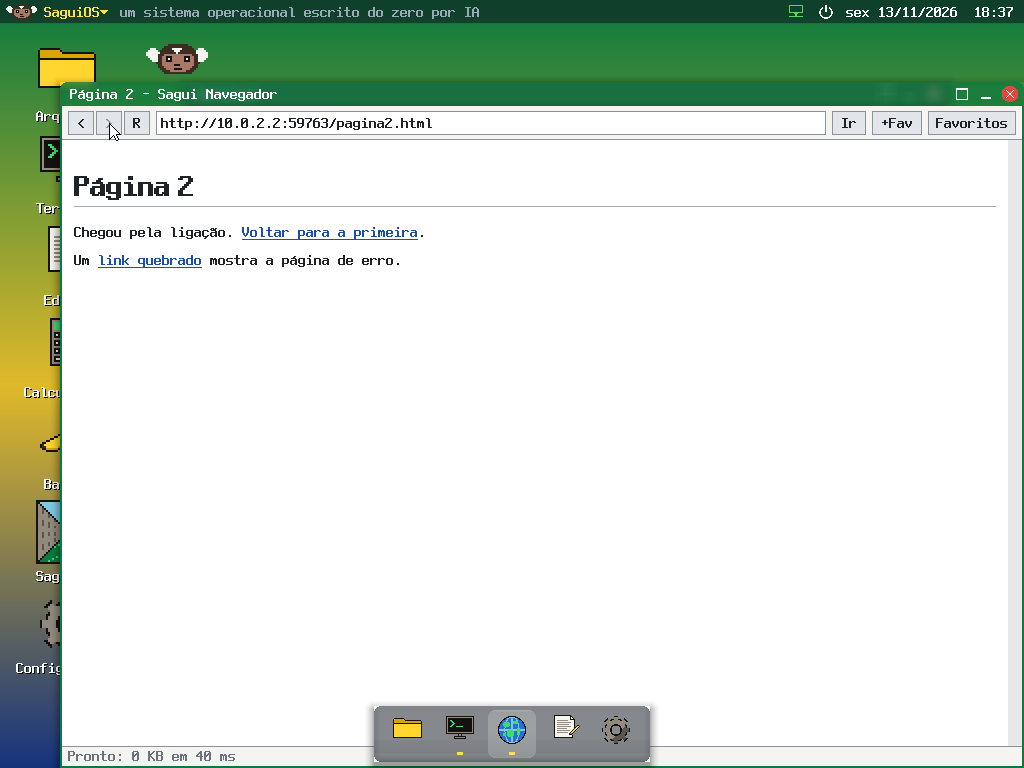
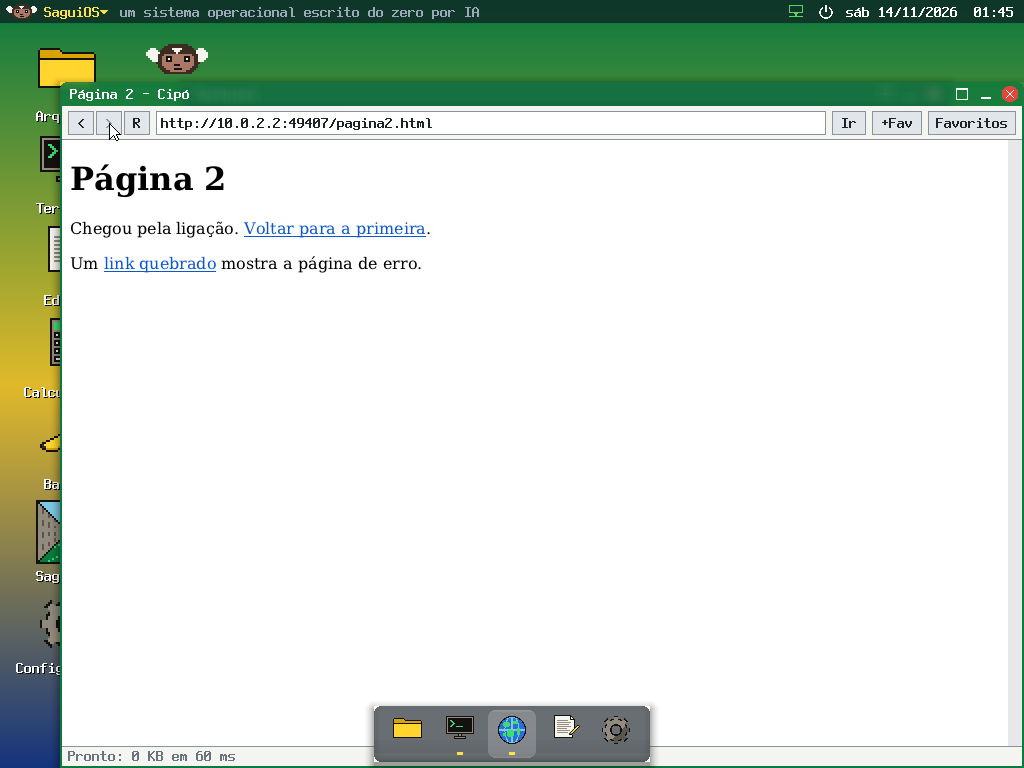
H82: decisão D043, contribuidores e capturas do Cipó
D043 registra o que entrou do pull request #6 (o motor do Cipó, por
cima da rede, do TLS, das janelas e do som da 2.0), o que ficou de fora
e por quê (TLS, rede, AC97 e desligar do #6, mudanças de ABI, LZMA do
kernel, regras para sites específicos), onde ficaram os trechos de
terceiros e as licenças conferidas, as correções no caminho (pilha
alinhada, layout) e as pendências. CONTRIBUIDORES.md ganha Robson de
Lima Barbosa (#6) e M4R4G0N (#3, o nome Cipó). Capturas novas da H62,
H63, H78 e H82.

Changed region(s): [[0.0625, 0.2188, 0.4375, 0.375], [0.3438, 0.9062, 0.6562, 1.0], [0.9375, 0.0, 0.9688, 0.0312]]

diff --git a/docs/decisoes.md b/docs/decisoes.md
@@ -1291,3 +1291,111 @@ outra opção, calcula com 80 bits por dentro e só arredonda ao guardar na
 memória, então a mesma conta dá resultados levemente diferentes conforme o
 compilador guarda ou não os valores; o teste da H80 pegou isso, e o
 JavaScript do Cipó exige double exato. O G470, o VirtualBox e o QEMU têm SSE2.
+
+## D043. O Cipó: o navegador da 2.0 com o motor do pull request #6 (H82)
+
+**Contexto.** O pull request #6, de Robson de Lima Barbosa, trouxe o "Cipó":
+um navegador muito mais completo que o da 2.0 (CSS moderno, JavaScript,
+fontes, Canvas, SVG, WebGL, vídeo), mas escrito sobre a versão 1.0 — com
+outra pilha de rede, outro TLS, som pela AC97, mudanças nas chamadas de
+sistema e tudo dentro da `libsagui`. A revisão achou também trechos
+reproduzidos de memória de projetos conhecidos (D041). O nome Cipó veio do
+#3 (M4R4G0N).
+
+**Decisão: o motor entra, por cima da 2.0.**
+- **Onde mora:** o motor é aplicativo, então fica em `userland/navegador/`
+  (`motor/`, `fontes/`, `js/`, `graficos/`) e não na `libsagui`, que é
+  núcleo e é ligada em todos os programas. As declarações que o #6 punha no
+  `sagui.h` estão em `userland/navegador/cipo.h`. O programa continua sendo
+  `/bin/navegador`; `/bin/cipo` é uma cópia com o nome novo. O tocador de
+  vídeo do #6 mora em `userland/video/` e vira `/bin/video`.
+- **O que entrou do #6:** o motor de páginas (HTML em árvore, cascata CSS com
+  seletores compostos, `var()`, `@media`, `!important`; bloco, inline,
+  float, flex, grid, tabela, `position`, `transform`, `z-index`, gradientes,
+  bordas arredondadas), a quebra de linha do Unicode (UAX #14), as fontes
+  TrueType, CFF, WOFF e WOFF2 (com Brotli, RFC 7932) e as DejaVu do sistema
+  em `/fontes`, o motor de JavaScript com DOM (classes, async, geradores,
+  Proxy, BigInt, typed arrays, eventos, timers, fetch/XHR, cookies,
+  iframes), o Canvas 2D, o SVG, o WebGL e o GLSL em software, as imagens GIF
+  e WebP, os cookies do HTTP e o tocador de MP4 (H.264 e AAC).
+- **O que é da 2.0 por baixo:** a rede, o HTTP e o TLS 1.3 (`http_pedir`;
+  a libsagui ganhou só `http_pedir_completo`, que mostra os cabeçalhos de
+  cada resposta, para o Set-Cookie e o fetch), a janela redimensionável, a
+  barra, o histórico e os favoritos do navegador da 2.0, o PNG, o JPEG
+  (também progressivo) e o DEFLATE da 2.0, e o som HD Audio (`som_abrir` e
+  `som_enviar`; o tocador converte o áudio para 48 kHz).
+- **Como o JavaScript conversa com o motor:** como no #6, os scripts rodam
+  sobre o HTML e devolvem o HTML do DOM depois do "load"; o motor lê esse
+  HTML. Cliques, teclas, timers e rolagem rodam no JavaScript, e se o DOM
+  mudou a página é relida no mesmo ponto da rolagem ("página viva").
+
+**O que ficou de fora do #6, e por quê.** O TLS, a rede, a AC97 e o
+`desligar` do #6 (a 2.0 já tem os seus, escritos aqui, e são núcleo); as
+mudanças na ABI e na GUI do kernel; a compactação LZMA do ramdisk e o filtro
+BCJ (`kernel/lib/lzma.c`, derivado do xz: é kernel, e a 2.0 não tem teto de
+tamanho — a imagem foi de 1,7 MB para cerca de 5 MB, com 1,3 MB de fontes);
+`entrega/`, o `tools/video/yt_base.py`, o gerador `tools/video/h264gen/` e
+as regras especiais para YouTube, Bing e reCAPTCHA. O leitor de HTML da 2.0
+(`html.c`) continua no repositório e na H61, mas a janela agora usa o motor;
+o `pagina.c` (layout da 2.0) saiu.
+
+**Os trechos de terceiros.** Cada um foi separado do código do Cipó numa
+pasta de `terceiros/`, com a licença original conferida e um `ORIGEM.md`:
+`font-rs` (o rasterizador por área acumulada; Apache 2.0), `libwebp-vp8` (o
+WebP com perdas e as suas tabelas; BSD + patentes WebM), `v8-numeros` (o
+`toString` em outras bases; BSD), `ffmpeg-h264-tabelas` (CABAC e CAVLC; LGPL
+2.1 ou posterior) e `faad2-aac-huffman` (os livros de Huffman do AAC; GPL 2
+**ou posterior**, conferido no COPYING e no copyright do Debian, com o
+preâmbulo do FAAD2 e a frase de crédito que ele exige). Todas são
+compatíveis com a GPL 3, então nada precisou ser reescrito. Dados: as fontes
+DejaVu (licença Bitstream Vera), as tabelas do Unicode (Unicode License v3)
+e o dicionário da RFC 7932 (BSD do IETF Trust), em `CREDITOS.md`. Uma
+função de datas do #6 que seguia um algoritmo conhecido (dias desde 1970)
+foi trocada por um laço simples escrito aqui.
+
+**Mudanças no código do #6.** Além de mudar de lugar: o PNG/JPEG passam pelos
+decodificadores da 2.0 e as imagens chegam com alfa (PNG transparente sobre
+o fundo da página); o WOFF usa o DEFLATE da 2.0; dois erros do layout
+corrigidos (linha vazia dentro de `pre` e `<br><br>` contava a altura em
+dobro; um float no começo do texto não era contornado pela primeira linha);
+`motor_ancora` e `motor_imagens_total` para os links `#âncora` e o registro.
+
+**Ponto flutuante e pilha.** O motor usa double pelo SSE2 (D042). Nos
+testes da H82 o `baixar https://...` (H53) passou a cair com "proteção
+geral" num `movdqa` da curva 25519: o `inicio.asm` deixava a pilha 8 bytes
+fora do alinhamento de 16 que o gcc supõe na entrada de `principal`, e com
+SSE2 o gcc guarda valores de 16 bytes na pilha com instruções que exigem o
+alinhamento; um quadro maior no HTTP mudou o caminho e o erro apareceu. O
+`inicio.asm` agora desce mais 8 bytes antes de empilhar os argumentos (vale
+para todos os programas). Com isso apareceu o mesmo erro do outro lado no
+`cc`, que troca para uma pilha própria de 1 MB com o topo vindo do `aloca`
+(alinhado só em 8): o topo agora é alinhado em 16. Os objetos do Cipó e do
+tocador são compilados também com `-mstackrealign`, por segurança. Outros
+testes mudaram por causa da imagem maior e da pasta `/fontes` na raiz: a H23
+conta 11 itens na raiz, e a H34 cria a FAT32 depois do fim da imagem (antes
+começava em 2 MB, e a imagem passou de 5 MB).
+
+**Testes.** A H62 continua comparando a janela, pixel a pixel, com o mesmo
+código compilado no computador — agora o motor do Cipó com as fontes DejaVu
+(as cores procuradas na captura mudaram: links `#0B57D0`, borda dos campos
+`#767676`). A H82 (`tests/h82_cipo.py`) confere uma página de CSS moderno
+(flex, grid, gradiente, float, tabela, transform, CSS externo, `@font-face`,
+SVG, GIF, WebP e PNG transparente) pixel a pixel, o GIF contra o Pillow, o
+WebP perto do Pillow, 120 páginas estragadas no motor com verificação de
+memória, e uma página de JavaScript (as verificações do teste do #6, mais
+`toString` em outras bases, cookies, fetch com POST, Canvas 2D, WebGL, timer
+e clique). `tests/h82_video.py` só testa a decodificação de vídeo e o som
+quando a máquina dos testes tem ffmpeg para gerar o MP4. A H63 (internet)
+mudou num ponto: o artigo da Wikipédia agora aparece como nos outros
+navegadores, com a busca do topo escondida atrás de uma lupa (o campo surge
+por JavaScript), então a busca é feita na página Especial:Pesquisar, que
+tem o campo à vista. A Wikipédia responde 429 ("respeite a política de
+robôs") quando muitos pedidos chegam seguidos com o User-Agent
+"SaguiOS/2.0" (um artigo pede dezenas de imagens); um User-Agent com
+contato, como a política pede, fica para depois.
+
+**Pendências.** O vídeo baixa o MP4 inteiro antes de tocar (o HTTP da 2.0
+entrega o corpo de uma vez); o `<video>` dentro da página só abre o tocador
+quando o endereço é o próprio MP4; WebGL, GLSL, iframes e fontes WOFF2 entram
+compilados mas só têm o teste básico (o WebGL limpando a tela); um float
+dentro de um bloco com borda pinta o fundo uns pixels abaixo do texto dele.

diff --git a/CONTRIBUIDORES.md b/CONTRIBUIDORES.md
@@ -7,3 +7,10 @@
 ## Contribuições da comunidade
 
 <!-- Cada contribuição incorporada ganha uma linha aqui: nome (perfil do GitHub), o que fez e o pull request. -->
+
+- **Robson de Lima Barbosa** ([@robson-apk](https://github.com/robson-apk)): o navegador Cipó (#6) —
+  motor de HTML, CSS e layout, quebra de linha Unicode, fontes TrueType/WOFF/WOFF2 com Brotli,
+  motor de JavaScript com DOM, Canvas 2D, SVG, WebGL e GLSL em software, imagens GIF e WebP,
+  cookies, e o tocador de vídeo H.264/AAC. Entrou na versão 2.1 (H82, D043).
+- **M4R4G0N** (#3): o nome **Cipó** para o navegador, e a ideia de uma página inicial com sites
+  que funcionam sem HTTPS (H83).
